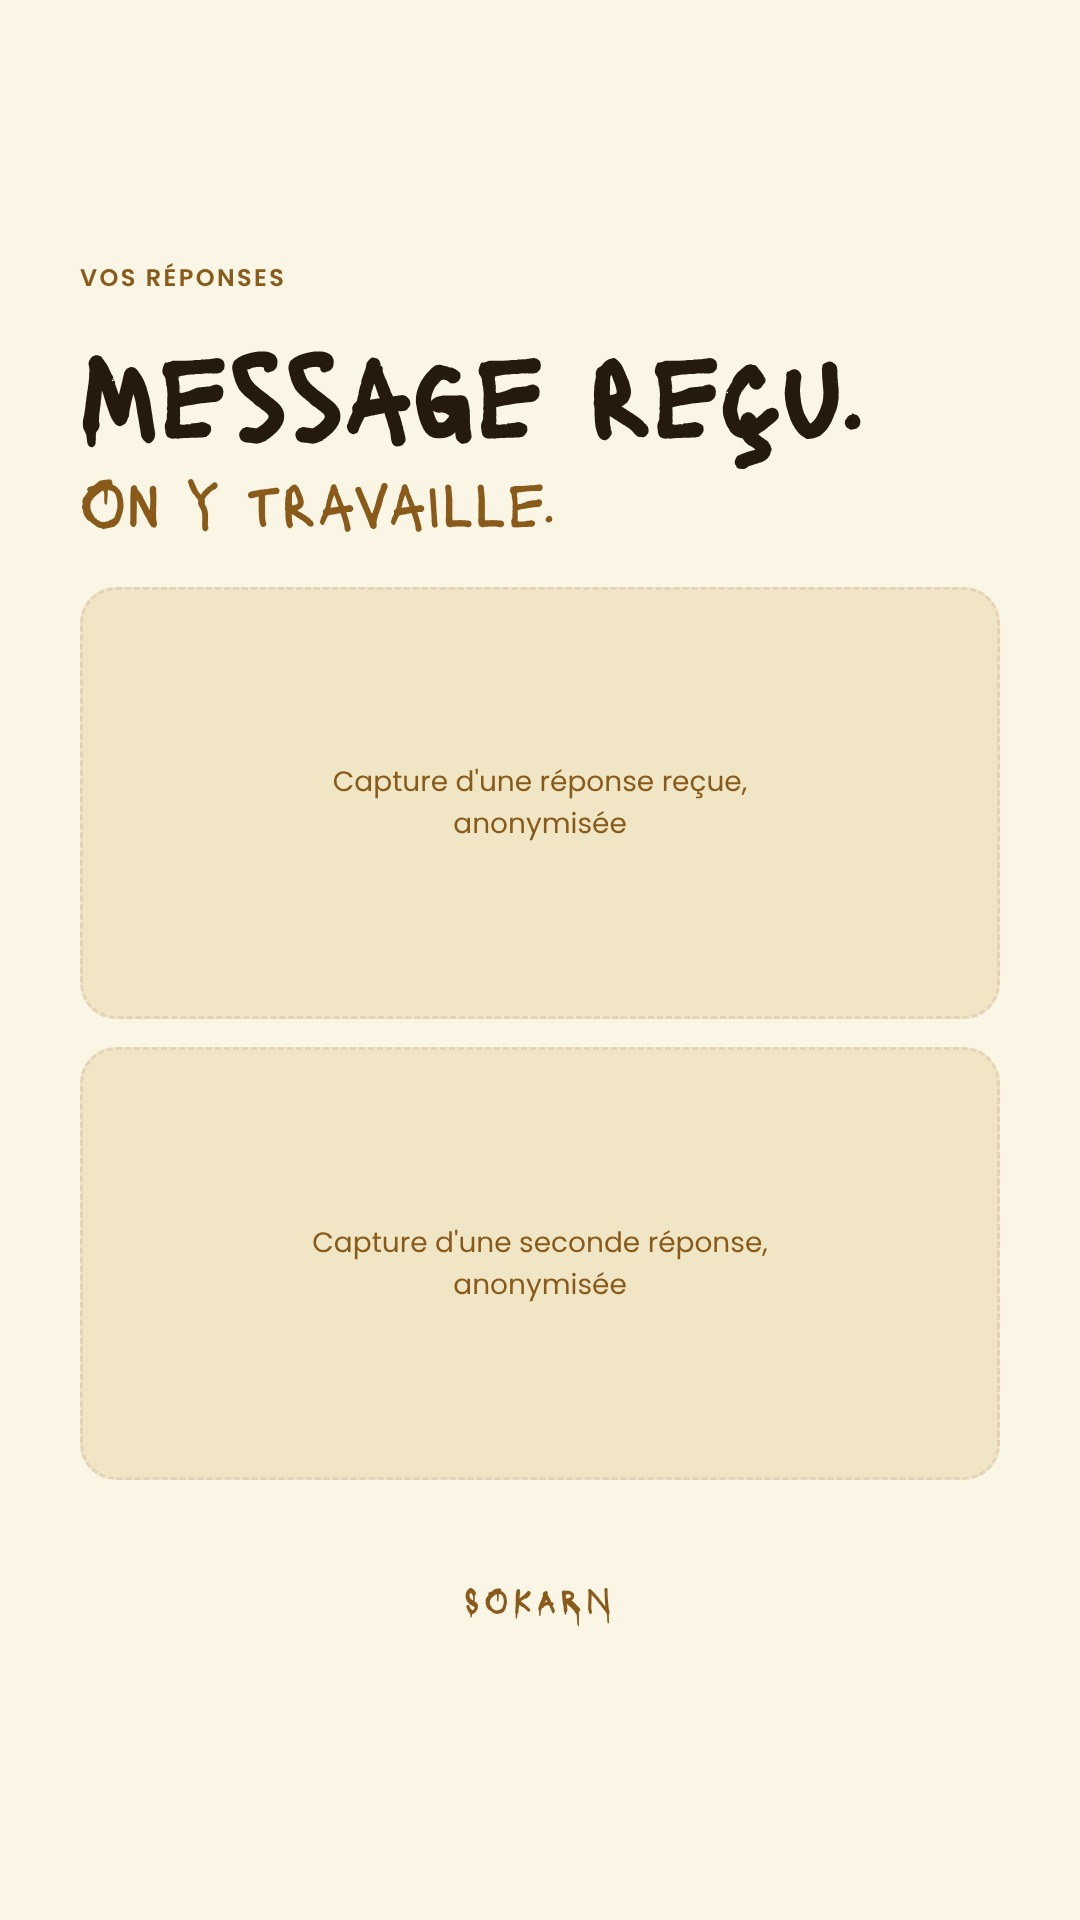
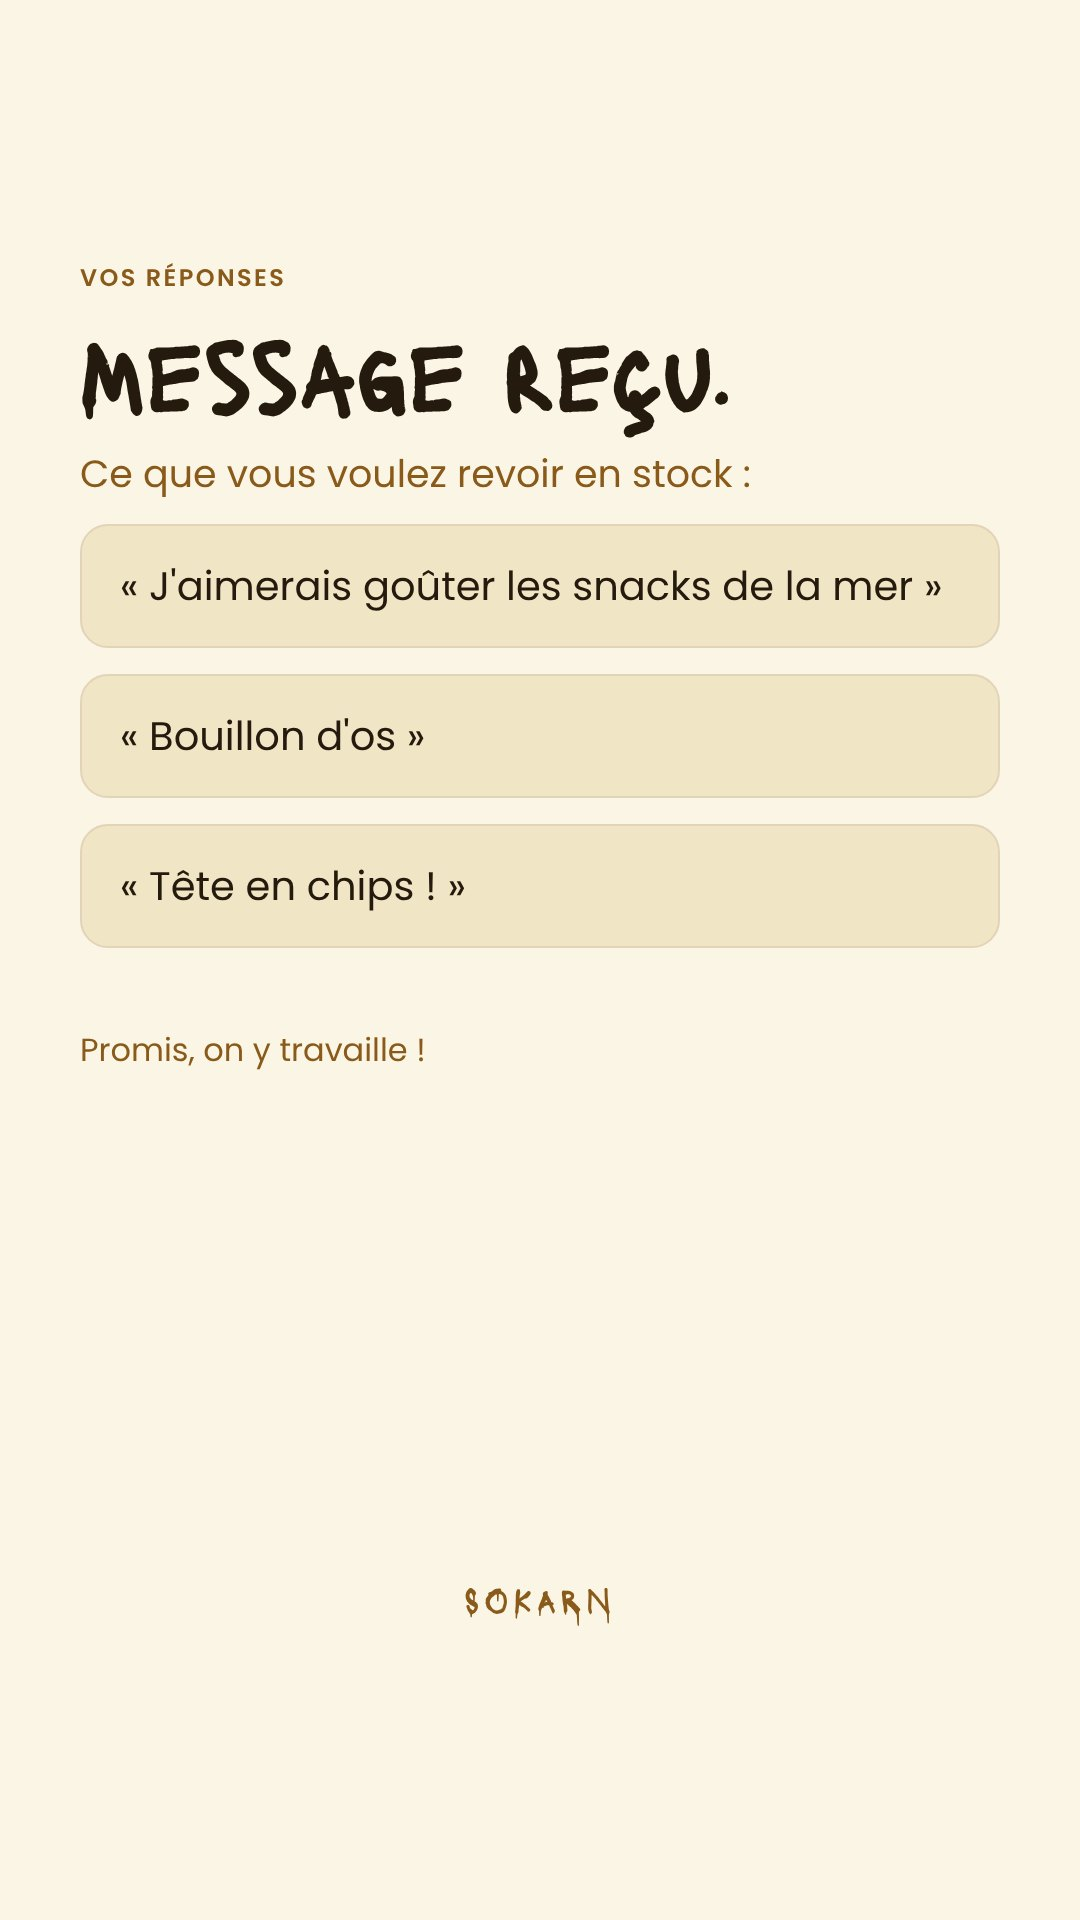
sokarn

diff --git a/espace-client/sokarn-k7m2x9/index.html b/espace-client/sokarn-k7m2x9/index.html
@@ -358,11 +358,11 @@ const POSTS = [
   {id:"s6", date:"Jeudi 22 octobre, 12h30", titre:"Vous avez voté - Story", resa:"Instagram, stories", format:"3 écrans", pilier:"La communauté",
    visuel:"Écran 1 : capture du sondage avec ses résultats.\nÉcran 2 : fond ocre avec le pourcentage obtenu.\nÉcran 3 : deux ou trois réponses reçues, en captures anonymisées.",
    texte:"Écran 1 : « Vous avez voté. »\nÉcran 2 : « Vous êtes X % à nous suivre pour les jerkys. Du coup, on vous en montre plus ce mois-ci. »\nÉcran 3 : « Message reçu. On y travaille. »", tags:""},
-  {id:"s10", date:"Vendredi 23 octobre, 18h30", titre:"Le Crêp'Karn - Reel", resa:"Instagram, TikTok, Facebook", format:"Reel, 20 à 30 secondes", pilier:"Le produit et ses usages",
-   visuel:"Recette filmée en plan fixe au-dessus du plan de travail : poudre versée, œufs ajoutés, mélange, pâte dans la poêle, retournement, assiette finie.\nRythme rapide, musique entraînante.\nTextes à l'écran : « De la farine de viande », « En crêpes », « 71,5 g de protéines pour 100 g ».",
-   demande:"Soit une vidéo de recette de crêpes que vous auriez déjà filmée, soit un envoi de Crêp'Karn pour que je filme la recette moi-même.",
-   texte:"Une farine qui ne vient pas d'un champ 🌾\n\nLe Crêp'Karn, c'est de la viande déshydratée et réduite en poudre. On l'utilise comme une farine : crêpes, galettes, pancakes, liant pour une sauce.\n\nZéro glucide, 71,5 grammes de protéines pour 100 grammes 💪. Et c'est tout.\n\nLa recette complète est sur le site, dans la rubrique recettes. Et si vous l'avez déjà testée, racontez-nous en commentaire ce que vous en avez fait",
-   tags:"#crepes #crepesproteinees #keto #carnivore #sansgluten #sanscereales #proteines #recettefacile #viandesechee #cuisinemaison #lowcarb #brunch"},
+  {id:"s13", date:"Vendredi 23 octobre, 18h30", titre:"Le Sable Noir - Reel", resa:"Instagram, TikTok, Facebook", format:"Reel, 15 secondes", pilier:"Le produit et ses usages",
+   visuel:"Vidéo produite par Manon à partir du produit que vous m'envoyez, avec des plans d'ambiance générés. Rien à filmer ni à photographier de votre côté.\nTextes à l'écran : « Besoin d'ajouter des protéines à vos soupes et salades ? », puis « Découvrez le Sable Noir ».",
+   demande:"M'envoyer le produit Sable Noir, je m'occupe du reste.",
+   texte:"On appelle ça le Sable Noir. C'est du graton de porc noir émietté, et c'est devenu notre condiment préféré 🖤\n\nSur une salade, sur des œufs brouillés, dans une soupe, sur une purée. Ça apporte du croustillant, un goût de cochon grillé, et 40 grammes de protéines pour 100 grammes 💪.\n\nSi vous ne deviez tester qu'un produit pour commencer, ce serait peut-être celui-là 👀",
+   tags:"#proteines #condiment #grattons #porcnoirdebigorre #astucecuisine #keto #carnivore #recettefacile #croustillant #produitlocal #hautespyrenees #topping"},
   {id:"s11", date:"Samedi 24 octobre, 11h", titre:"Un seul produit pour tout l'automne - Story", resa:"Instagram, stories", format:"3 écrans", pilier:"Les visages",
    visuel:"Écran 1 : l'une de vous deux face caméra, 10 secondes.\nÉcran 2 : l'autre répond, 10 secondes. Un désaccord entre vous est idéal.\nÉcran 3 : fond ocre, sticker questions.",
    demande:"Vos deux réponses face caméra, dix secondes chacune. Un désaccord entre vous est idéal.",
@@ -370,11 +370,11 @@ const POSTS = [
   {id:"s12", date:"Lundi 26 octobre, 12h30", titre:"Vos réponses - Story", resa:"Instagram, stories", format:"3 écrans", pilier:"La communauté",
    visuel:"Écran 1 : trois ou quatre réponses reçues, en captures.\nÉcran 2 : le produit le plus cité, avec le lien vers sa fiche.\nÉcran 3 : le produit à découvrir ensuite, avec le lien vers sa fiche.",
    texte:"Écran 1 : « Vous avez été nombreuses et nombreux à répondre. »\nÉcran 2 : « Le grand gagnant, c'est… »\nÉcran 3 : « Vous avez aimé celui-là ? Alors vous aimerez sûrement… » suivi du produit complémentaire et du lien vers sa fiche.", tags:""},
-  {id:"s13", date:"Mardi 27 octobre, 18h30", titre:"Le Sable Noir - Reel", resa:"Instagram, TikTok, Facebook", format:"Reel, 15 secondes", pilier:"Le produit et ses usages",
-   visuel:"Vidéo produite par Manon à partir du produit que vous m'envoyez, avec des plans d'ambiance générés. Rien à filmer ni à photographier de votre côté.\nTextes à l'écran : « Besoin d'ajouter des protéines à vos soupes et salades ? », puis « Découvrez le Sable Noir ».",
-   demande:"M'envoyer le produit Sable Noir, je m'occupe du reste.",
-   texte:"On appelle ça le Sable Noir. C'est du graton de porc noir émietté, et c'est devenu notre condiment préféré 🖤\n\nSur une salade, sur des œufs brouillés, dans une soupe, sur une purée. Ça apporte du croustillant, un goût de cochon grillé, et 40 grammes de protéines pour 100 grammes 💪.\n\nSi vous ne deviez tester qu'un produit pour commencer, ce serait peut-être celui-là 👀",
-   tags:"#proteines #condiment #grattons #porcnoirdebigorre #astucecuisine #keto #carnivore #recettefacile #croustillant #produitlocal #hautespyrenees #topping"},
+  {id:"s10", date:"Mardi 27 octobre, 18h30", titre:"Le Crêp'Karn - Reel", resa:"Instagram, TikTok, Facebook", format:"Reel, 20 à 30 secondes", pilier:"Le produit et ses usages",
+   visuel:"Recette filmée en plan fixe au-dessus du plan de travail : poudre versée, œufs ajoutés, mélange, pâte dans la poêle, retournement, assiette finie.\nRythme rapide, musique entraînante.\nTextes à l'écran : « De la farine de viande », « En crêpes », « 71,5 g de protéines pour 100 g ».",
+   demande:"Soit une vidéo de recette de crêpes que vous auriez déjà filmée, soit un envoi de Crêp'Karn pour que je filme la recette moi-même.",
+   texte:"Une farine qui ne vient pas d'un champ 🌾\n\nLe Crêp'Karn, c'est de la viande déshydratée et réduite en poudre. On l'utilise comme une farine : crêpes, galettes, pancakes, liant pour une sauce.\n\nZéro glucide, 71,5 grammes de protéines pour 100 grammes 💪. Et c'est tout.\n\nLa recette complète est sur le site, dans la rubrique recettes. Et si vous l'avez déjà testée, racontez-nous en commentaire ce que vous en avez fait",
+   tags:"#crepes #crepesproteinees #keto #carnivore #sansgluten #sanscereales #proteines #recettefacile #viandesechee #cuisinemaison #lowcarb #brunch"},
   {id:"s9", date:"Mercredi 28 octobre, 12h30", titre:"Ça se conserve combien de temps ? - Story", resa:"Instagram, stories", format:"4 écrans", pilier:"Le produit et ses usages",
    visuel:"Écran 1 : fond ocre, la question en gros.\nÉcran 2 : photo d'un paquet avec la réponse.\nÉcran 3 : plan du placard ou du sac.\nÉcran 4 : sticker questions.",
    texte:"Écran 1 : « Ça se conserve combien de temps ? »\nÉcran 2 : « Six mois après ouverture pour tous nos produits secs. »\nÉcran 3 : « Pas besoin de frigo. C'est tout l'intérêt du séchage. »\nÉcran 4 : « Une autre question sur nos produits ? »", tags:""},
